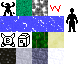
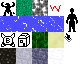
Pixelized pointer

Changed region(s): [[0.8, 0.5, 0.9, 0.6562]]

diff --git a/README.md b/README.md
@@ -94,13 +94,15 @@ You have psy abilities, so your cursor has FOV just like you do.
  - [x] Travelling through void is veeeeery slow but possible
  - [x] Use mutators instead of methods to mutate objects
  - [x] Sythesize mutators to watch properties
+ - [x] Pixelized pointer
+ - [ ] Tile/object info window near pointer
  - [ ] Console command history
  - [ ] Give pretzels to feral kobolds to adopt them
  - [ ] UI: draggable panels
  - [ ] Built in text editor
  - [ ] Game plays in a window inside the GUI
  - [ ] Notable characters system: building an inn creates a barkeeper, building a smithy creates a blacksmith
- - [ ] Multiple game windwos may be opened
+ - [ ] Multiple game windows may be opened
  - [ ] Use meshes and vertex shading for smooth fog of war
  - [ ] `bind()` command to assign keys
  - [ ] Use string buffers for text manipulation [1]
